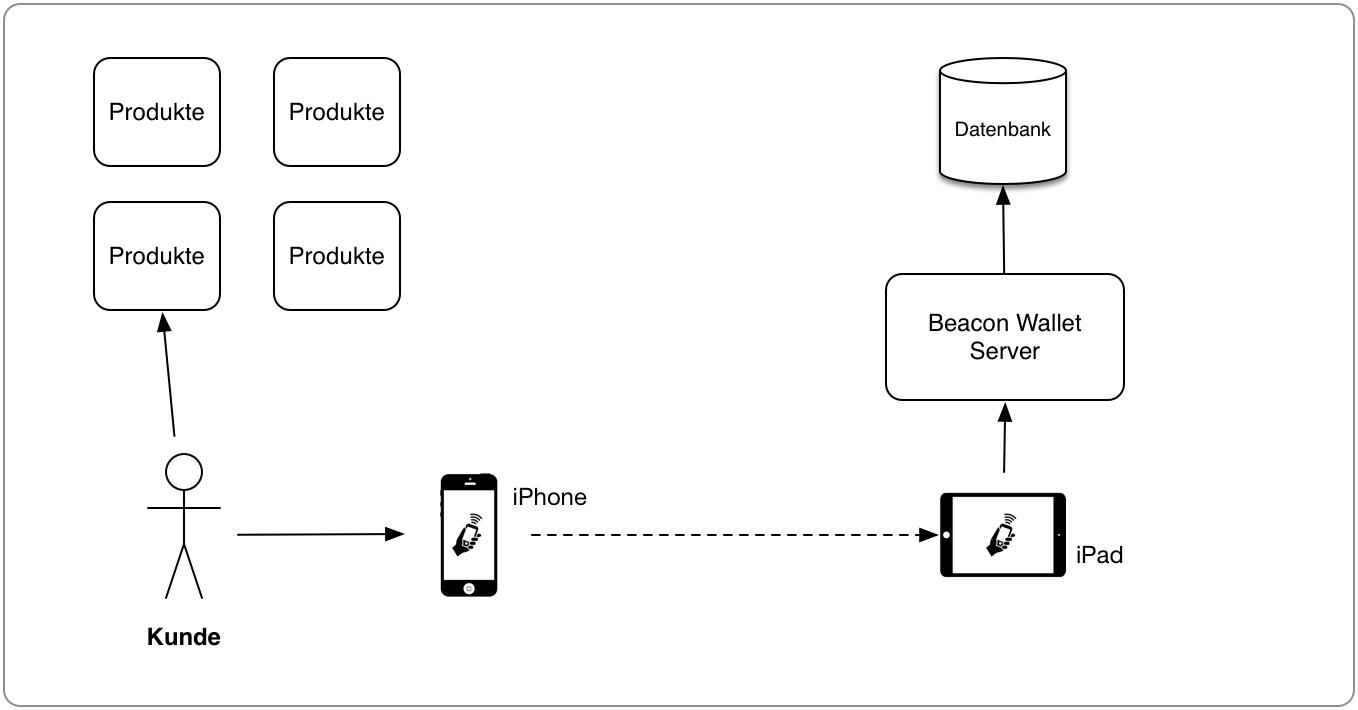
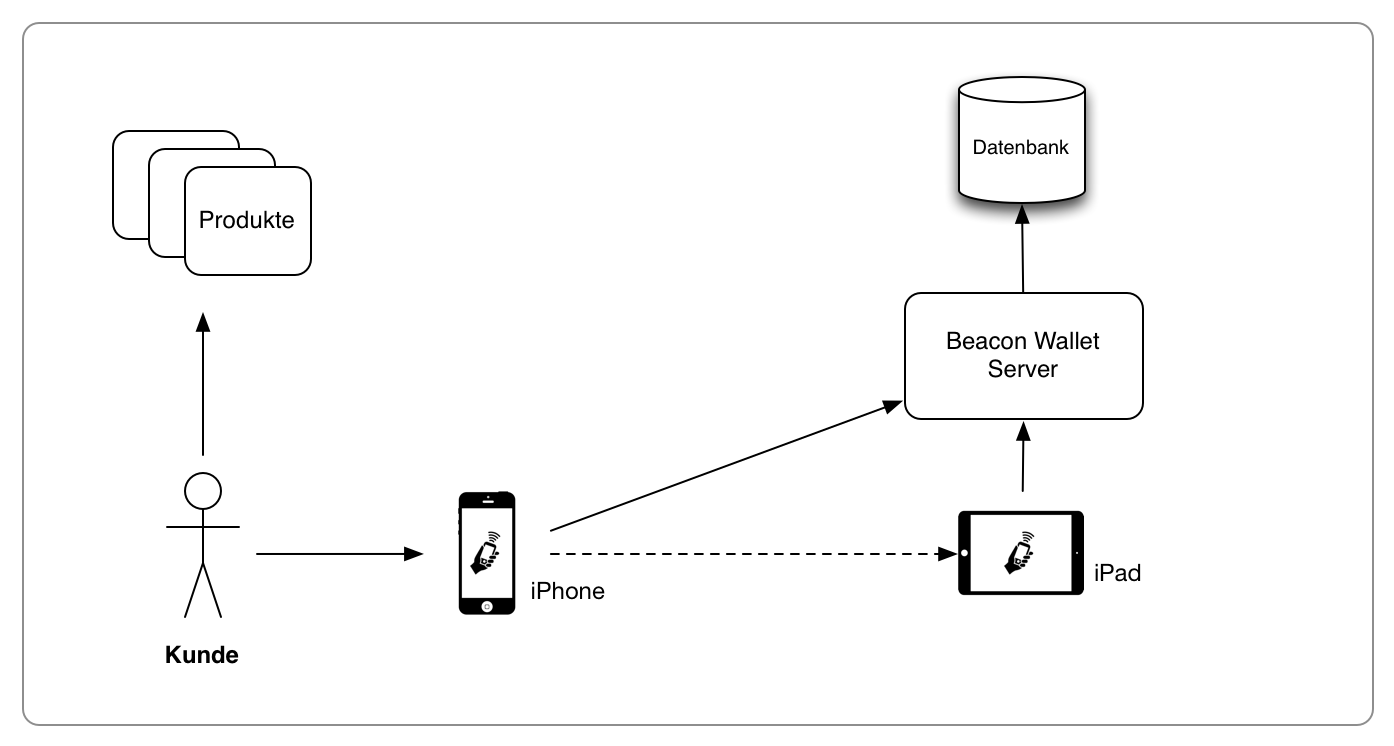
Changes Kontextdiagramm

diff --git a/beacon-wallet-doc/beacon-wallet.html b/beacon-wallet-doc/beacon-wallet.html
@@ -921,13 +921,26 @@ Hat der Kunde den Einkauf beendet, bezahlt er direkt aus der App heraus. Dazu le
 
 <h3>Kontextabgrenzung</h3>
 
+<p>
+Im Kontext des Beacon Wallet Systems befinden sich verschiedene Komponenten, 
+welche einen Einfluss auf die Anforderungen haben und nachfolgend beschrieben sind.
+</p>
+
 <figure class="inline">
     <img src="images/kontextabgrenzung.png" width="400px" />
     <figcaption>Kontextabgrenzung</figcaption>
 </figure>
 
-<p>Im Kontext des Beacon Wallet Systems befinden sich verschiedene Komponenten.</p>
-<p>Der Kunde interagiert mit den Produkten, welche Coop anbieten. Um diese in seinen Warenkorb zu bringen, muss er den Barcode der Produkte scannen. Dazu verwendet er die iPhone App. Sobald sein Einkauf abgeschlossen ist, begebt sich der Kunde zum Kassenbereich. Um eine Zahlung auszuführen, muss er sich in der Nähe eines iPads befinden. Das iPad nimmt dann die Zahlung entgegen und führt diese mittels der Serverkomponten aus. Die Transaktion wird in einer Datenbank gespeichert. Die Datenbank enthält auch alle Produkte, welche von Coop angeboten werden.</p>
+<p>
+Der Kunde interagiert mit den Produkten, welche der Coop anbieten. Um diese in 
+seinen virtuellen Warenkorb zu legen, muss er den Barcode der Produkte scannen. 
+Dazu verwendet er die iPhone-App. Sobald sein Einkauf abgeschlossen ist, 
+begibt sich der Kunde zum Kassenbereich. Um eine Zahlung auszuführen, muss er 
+sich in der Nähe eines iPads befinden. Das iPad nimmt dann die Zahlung entgegen 
+und führt diese mithilfe der Server-Komponte aus. Die Transaktion wird in einer
+Datenbank gespeichert. Die Datenbank enthält auch alle Produkte, welche von Coop
+angeboten werden und vom iPhone angezeigt werden können.
+</p>
 
 <h3>Use Cases</h3>
 
